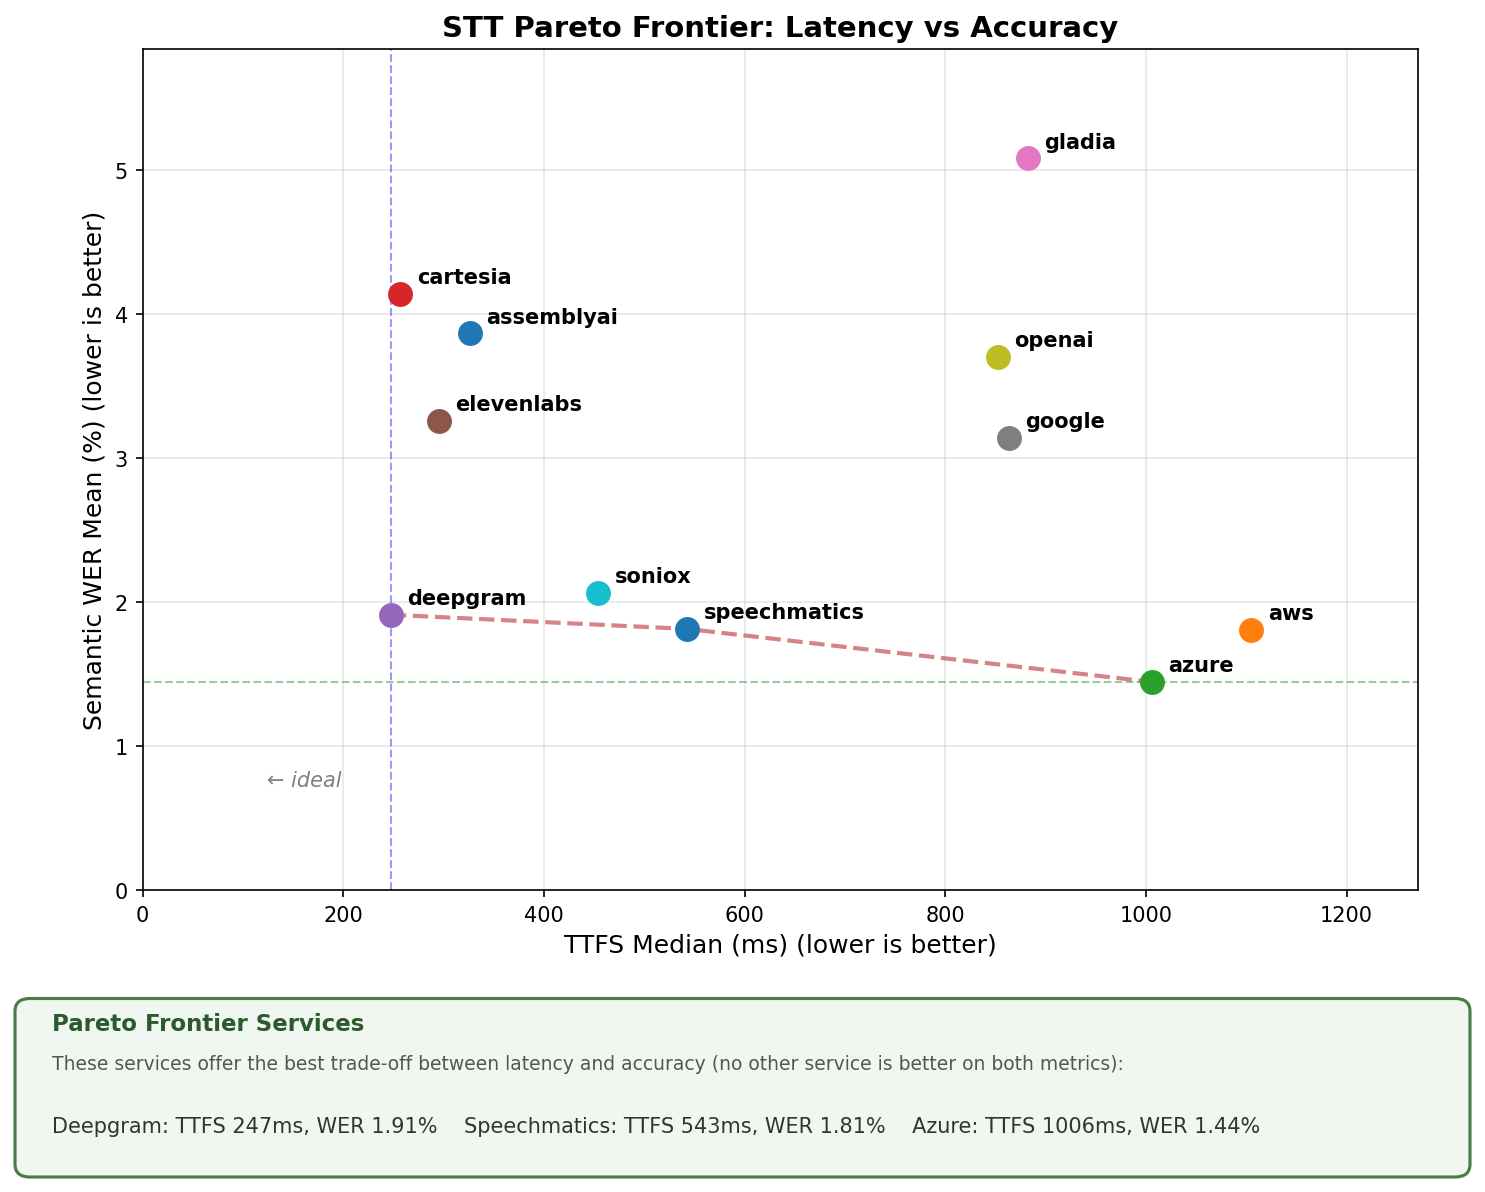
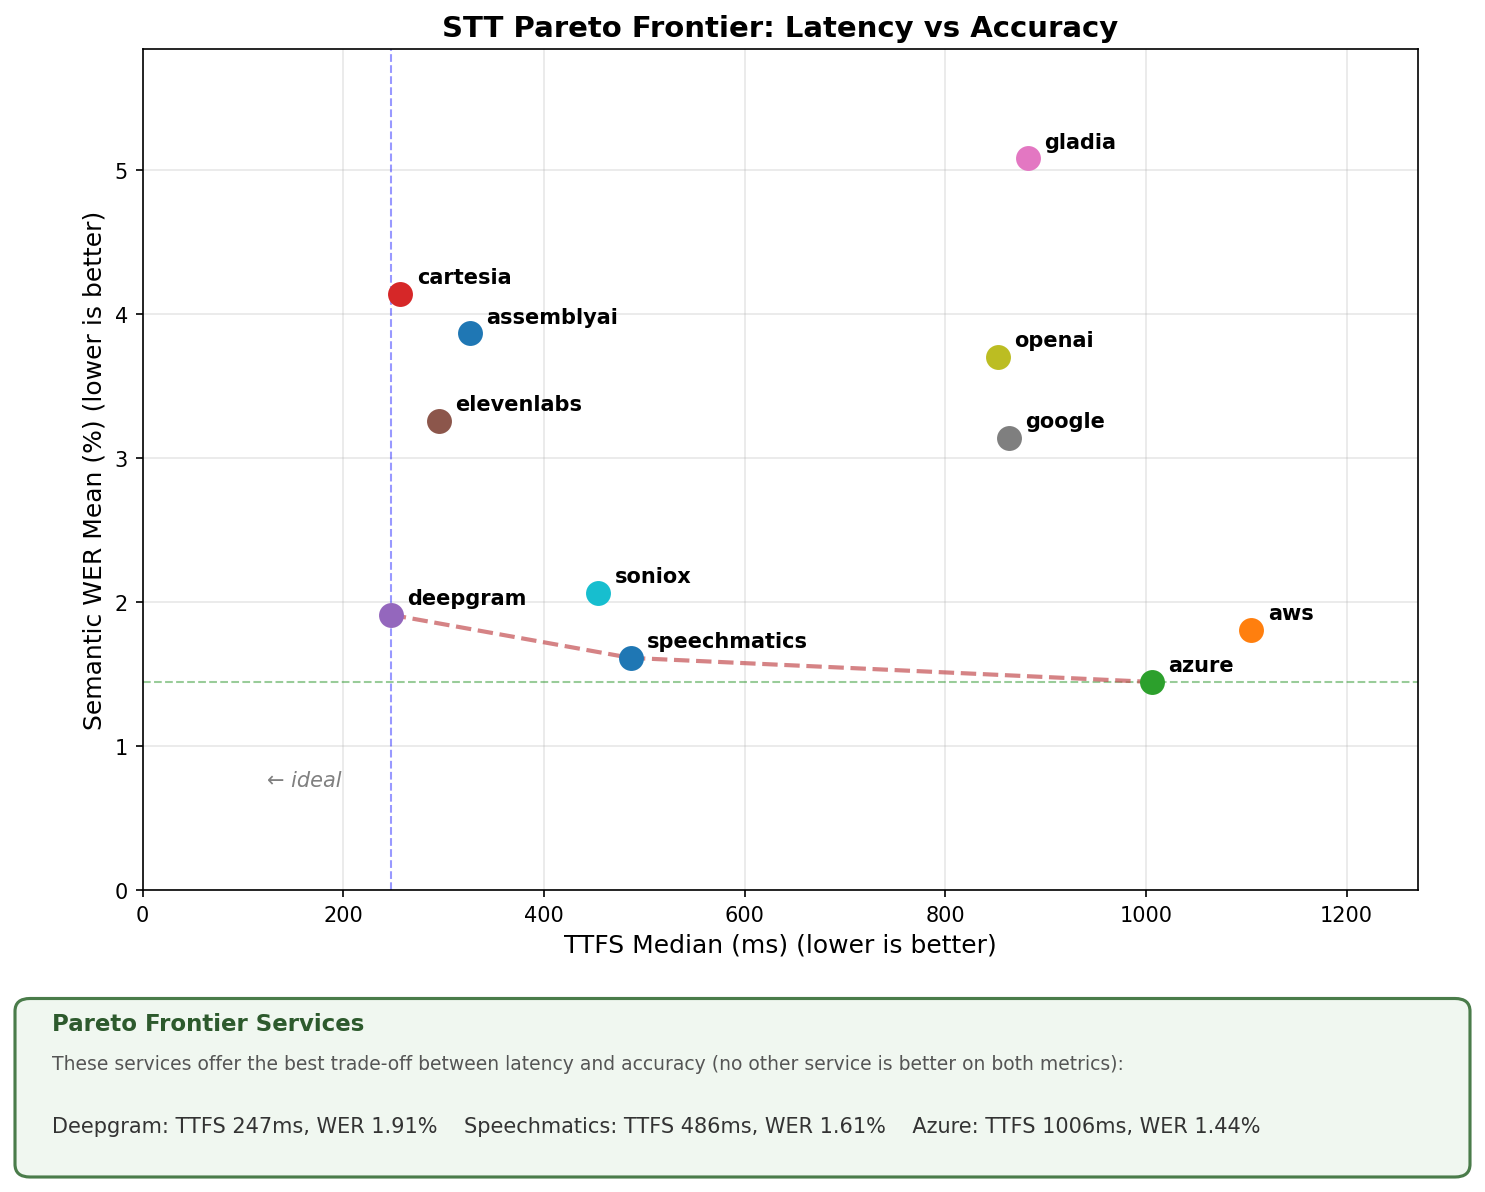
Update for Speechmatics data

diff --git a/src/stt_benchmark/services.py b/src/stt_benchmark/services.py
@@ -187,13 +187,6 @@ STT_SERVICES: dict[str, STTServiceConfig] = {
         pipecat_class="SpeechmaticsSTTService",
         default_model=None,
     ),
-    "speechmatics_us": STTServiceConfig(
-        name="speechmatics_us",
-        api_key_env="SPEECHMATICS_API_KEY",
-        pipecat_module="pipecat.services.speechmatics.stt",
-        pipecat_class="SpeechmaticsSTTService",
-        default_model=None,
-    ),
     "whisper": STTServiceConfig(
         name="whisper",
         pipecat_module="pipecat.services.whisper.stt",

diff --git a/src/stt_benchmark/models.py b/src/stt_benchmark/models.py
@@ -31,7 +31,6 @@ class ServiceName(str, Enum):
     SAMBANOVA = "sambanova"
     SARVAM = "sarvam"
     SPEECHMATICS = "speechmatics"
-    SPEECHMATICS_US = "speechmatics_us"
     SONIOX = "soniox"
     WHISPER = "whisper"
 

diff --git a/README.md b/README.md
@@ -18,7 +18,7 @@ Benchmark results on 1000 samples from the `pipecat-ai/smart-turn-data-v3.1-trai
 | google | 100.0% | 67.8% | 3.14% | 863ms | 1132ms | 1522ms |
 | openai | 100.0% | 74.8% | 3.70% | 852ms | 1413ms | 1806ms |
 | soniox | 100.0% | 78.8% | 2.06% | 454ms | 853ms | 1166ms |
-| speechmatics | 99.9% | 80.8% | 1.81% | 543ms | 743ms | 813ms |
+| speechmatics | 99.8% | 80.8% | 1.61% | 486ms | 678ms | 737ms |
 
 ### Latency vs Accuracy Trade-off
 
